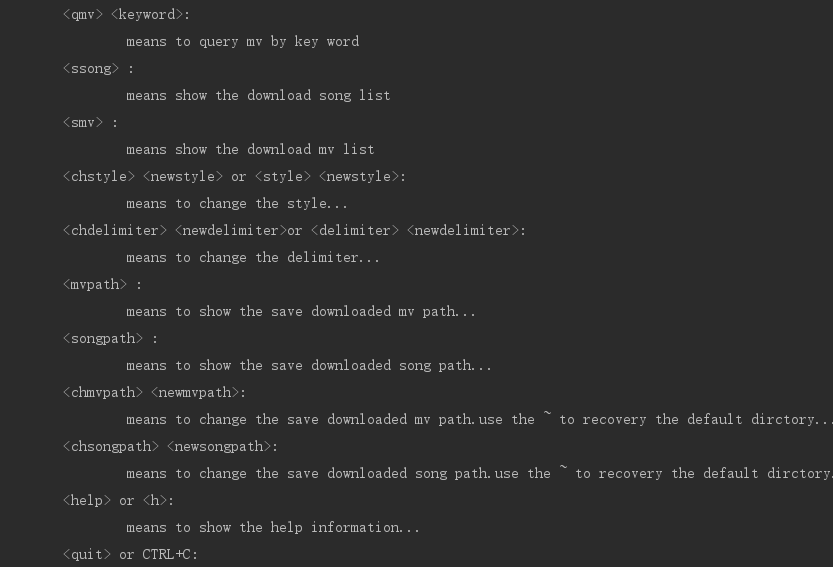
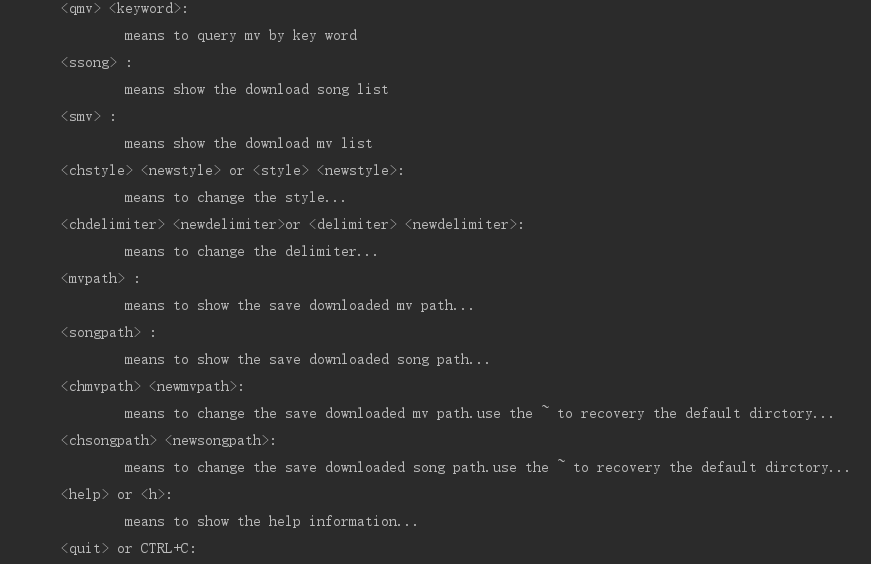
重新截图help2.png，更新readme.md

diff --git a/kugou/core.go b/kugou/core.go
@@ -26,7 +26,6 @@ const (
 	PATH_SONG   = "songpath"
 	CHANGE_PATH_MV = "chmvpath"
 	CHANGE_PATH_SONG   = "chsongpath"
-
 	CHSTYLE   = "chstyle"
 	STYLE   = "style"
 	CHDELIMITER   = "chdelimiter"

diff --git a/README.md b/README.md
@@ -43,7 +43,9 @@ Now this will retrieve the project to your local directory, you can start your t
 
 
 2.the following is the  picture of help document,which is runned int the goland ide.
-![help document](https://github.com/wenxiaofeiCode/Somusic/blob/master/kugou/picture/help.png)
+![help document](https://github.com/wenxiaofeiCode/Somusic/blob/master/usages/help1.png)
+![help document](https://github.com/wenxiaofeiCode/Somusic/blob/master/usages/help2.png)
+![help document](https://github.com/wenxiaofeiCode/Somusic/blob/master/usages/help3.png)
 
 ## Usages ##
 In this section. I will use the search song keyword:`极致纯电音` and the search mv keyword :`三寸天堂` as the example to show how to use the somusic program.  
@@ -75,7 +77,7 @@ In this section. I will use the search song keyword:`极致纯电音` and the se
 9. **show the current saved download songs' directory.**
 
 
-10. ** show the current saved download mvs' directory.**
+10. **show the current saved download mvs' directory.**
 
 
 11. **change the saved download mvs' directory.**
